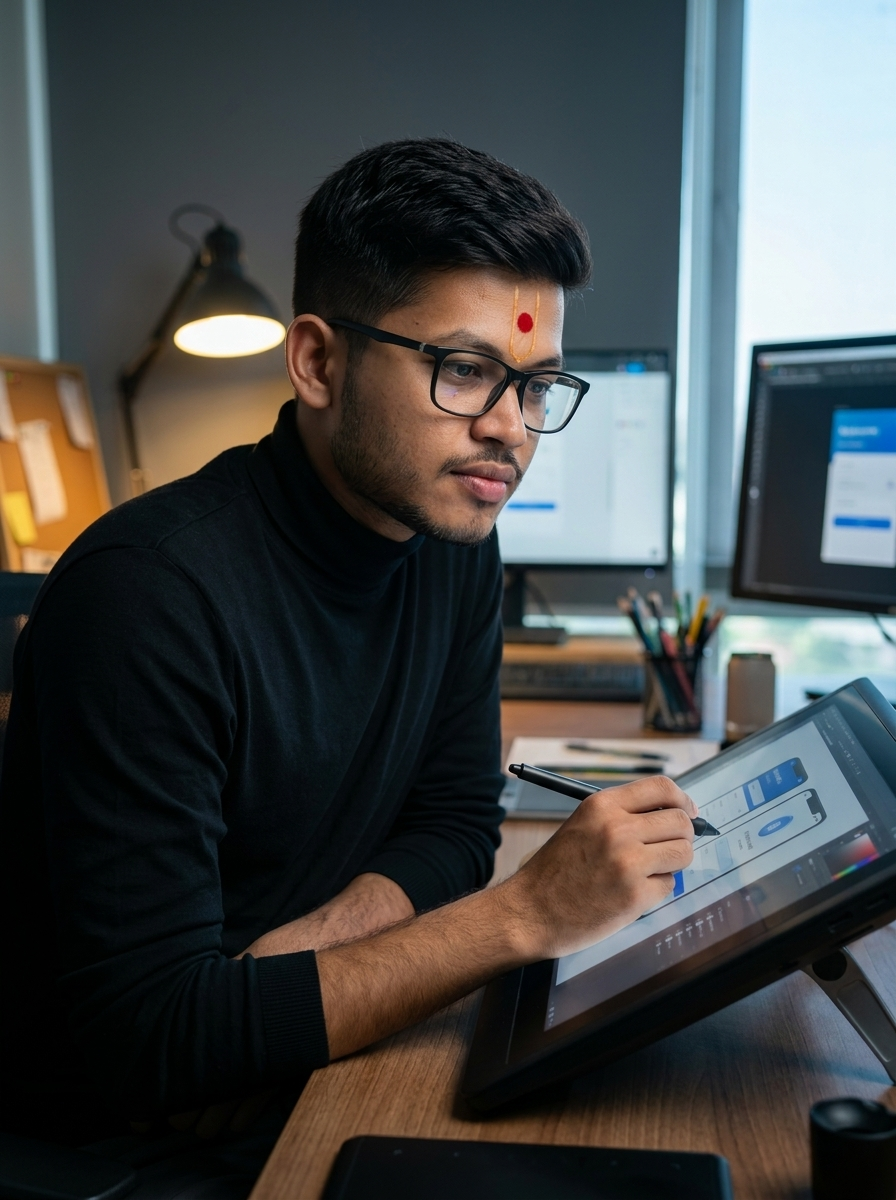
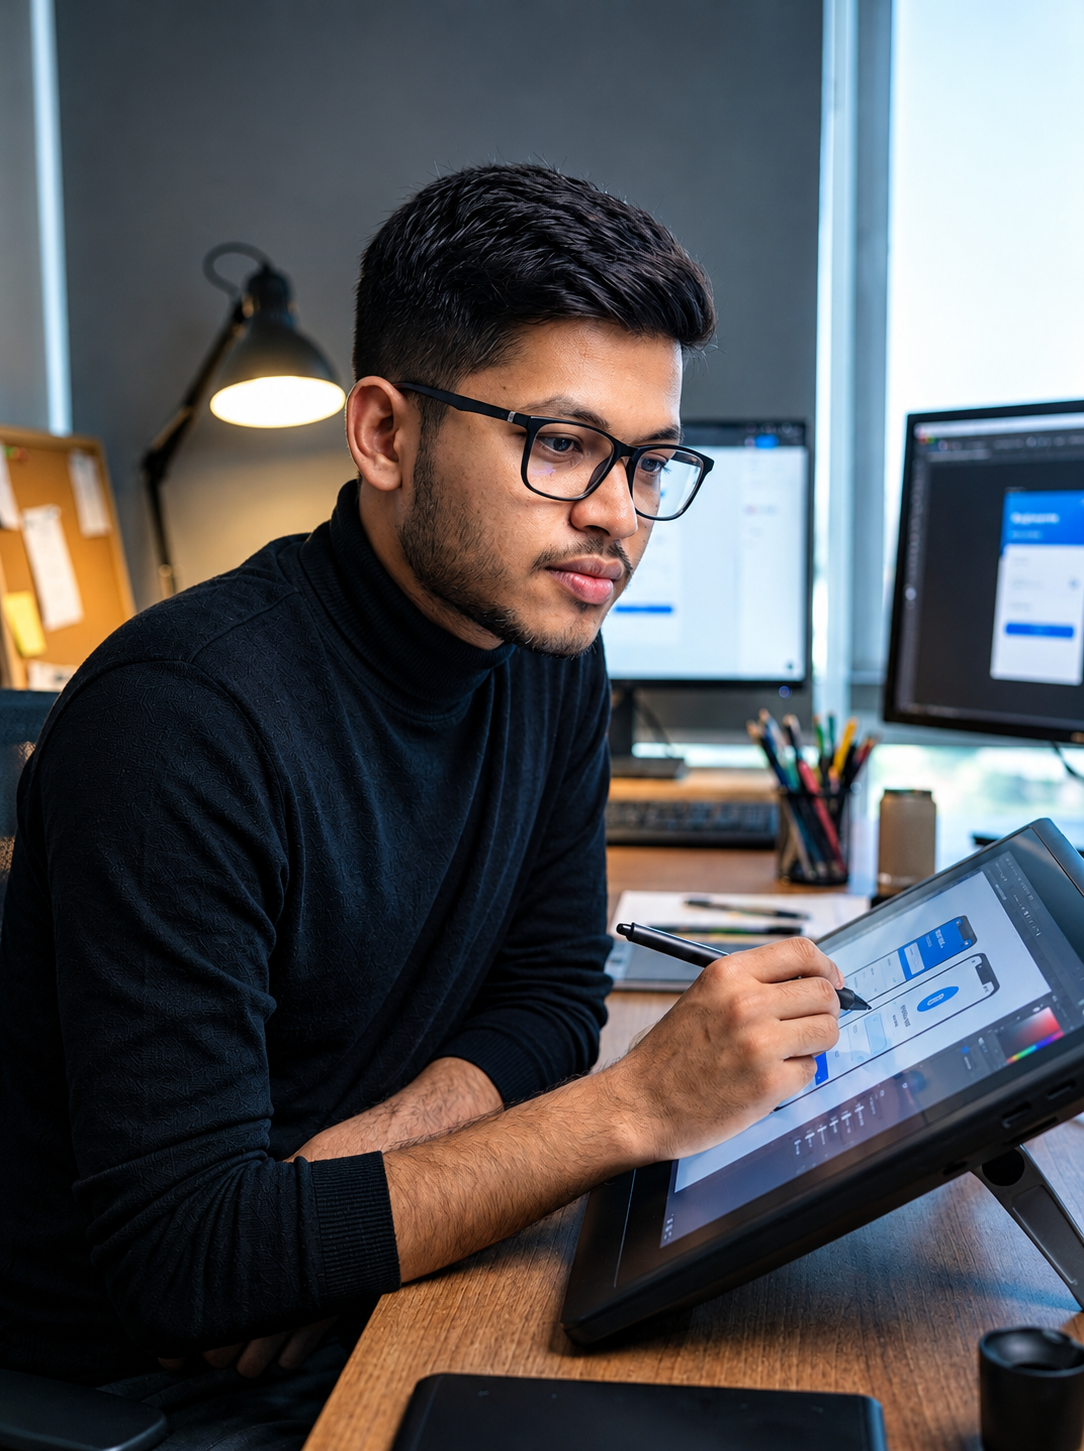
feat(portraits): update hero_portrait and creative_designer with clean professional headshots and centered framing

diff --git a/components/sections/ZoomTypoHero.tsx b/components/sections/ZoomTypoHero.tsx
@@ -30,7 +30,7 @@ const PORTRAITS = [
     tag: '02 // DESIGNER',
     role: 'High-Craft Interface Director',
     quote: 'Bridging engineering precision with memorable aesthetic craft.',
-    objectPosition: 'center 28%',
+    objectPosition: 'center 26%',
   },
   {
     id: 'builder',
